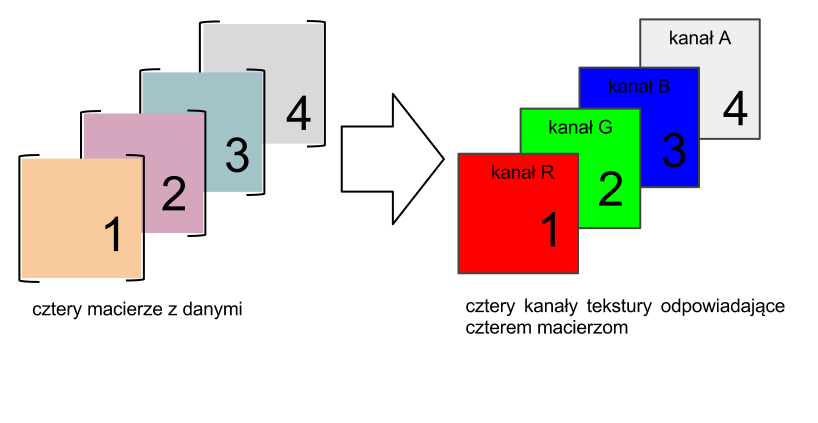
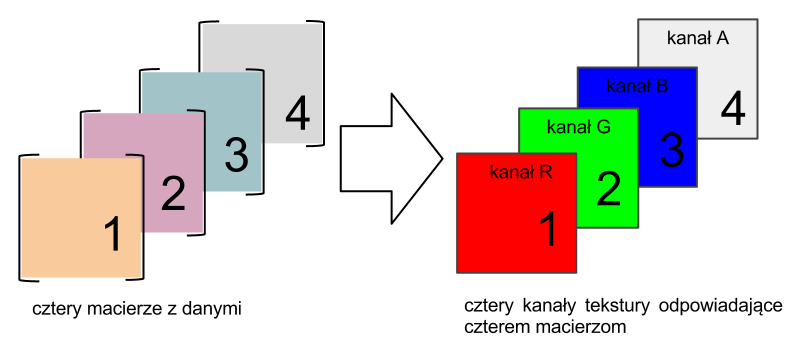
Poprawki w rozdziale o implementacji WebGL, abstrakcie i obrazkach

Changed region(s): [[0.0, 0.0291, 0.9636, 0.843], [0.5721, 0.8721, 0.9937, 0.9884], [0.0301, 0.8721, 0.3011, 0.9302]]

diff --git a/abstrakt.tex b/abstrakt.tex
@@ -1,32 +1,38 @@
 \begin{abstract}
 
-Celem niniejszej pracy było stworzenie wydajnej symulacji dynamiki płynów oraz przewodnictwa
-cieplnego działającej w środowisku przeglądarki internetowej. Aplikacja ma charakter edukacyjny, a
-jej głównym zadaniem jest wspieranie użytkownika w dogłębnym zrozumieniu procesu transferu energii,
-w tym zjawisk takich jak przewodnictwo cieplne, konwekcja czy różnorodne przepływy gazów i cieczy.
-Projekt został zrealizowany przy współpracy \mbox{z The Concord Consortium}, amerykańską organizacją
-\mbox{non-profit} zajmującą się wspieraniem edukacji poprzez technologię.
+Celem niniejszej pracy było stworzenie wydajnej symulacji dynamiki płynów oraz
+przewodnictwa cieplnego działającej w środowisku przeglądarki internetowej.
+Aplikacja ma charakter edukacyjny, a jej głównym zadaniem jest wspieranie
+użytkownika w dogłębnym zrozumieniu procesu transferu energii, w tym zjawisk
+takich jak przewodnictwo cieplne, konwekcja czy różnorodne przepływy gazów i
+cieczy. Projekt został zrealizowany przy współpracy \mbox{z The Concord
+Consortium}, amerykańską organizacją \mbox{non-profit} zajmującą się wspieraniem
+edukacji poprzez technologię.
 
-Implementacja symulatora w przeglądarce internetowej była niezwykle istotna ze względu na jego
-edukacyjne zastosowanie -- kluczowym wymaganiem była dostępność dla jak najszerszego grona
-użytkowników, przenośność, wieloplatformowość oraz możliwość łatwego osadzania w wirtualnych
-podręcznikach szkolnych nowej generacji.
-Z drugiej strony, o jakości symulacji fizycznej w dużej mierze decyduje jej wydajność czyli
-efektywne wykorzystanie zasobów. Do niedawna stało to w sprzeczności z implementacją w języku
-\emph{JavaScript} oraz wykonywaniem w środowisku przeglądarki internetowej.
+Implementacja symulatora w przeglądarce internetowej była niezwykle istotna ze
+względu na jego edukacyjne zastosowanie -- kluczowym wymaganiem była dostępność
+dla jak najszerszego grona użytkowników, przenośność, wieloplatformowość oraz
+możliwość łatwego osadzania w wirtualnych podręcznikach szkolnych nowej
+generacji. Z drugiej strony, o jakości symulacji fizycznej w dużej mierze
+decyduje jej wydajność czyli efektywne wykorzystanie zasobów. Do niedawna stało
+to w sprzeczności z implementacją w języku \emph{JavaScript} oraz wykonywaniem w
+środowisku przeglądarki internetowej. 
+ 
+Realizacja tych pozornie wykluczających się wymagań została osiągnięta dzięki
+implementacji uwzględniającej budowę i ograniczenia silników \emph{JavaScript} w
+nowoczesnych przeglądarkach oraz dzięki przeniesieniu większości obliczeń na
+procesor karty graficznej wykorzystując technologię \emph{WebGL}. Jest to
+podejście nowatorskie, gdyż dopiero wraz z niedawnym rozpowszechnieniem się
+standardu \emph{HTML5} zasoby kart graficznych stały się dostępne dla aplikacji
+internetowych w tak szerokim zakresie.
 
-Realizacja tych pozornie wykluczających się wymagań została osiągnięta dzięki implementacji
-uwzględniającej budowę i ograniczenia silników \emph{JavaScript} w nowoczesnych przeglądarkach oraz
-dzięki przeniesieniu większości obliczeń na procesor karty graficznej wykorzystując technologię
-\emph{WebGL}. Jest to podejście nowatorskie, gdyż dopiero wraz z niedawnym rozpowszechnieniem się
-standardu \emph{HTML5} zasoby kart graficznych stały się dostępne dla aplikacji internetowych w tak
-szerokim zakresie.
-
-W pracy zostały przedstawione najważniejsze, nowoczesne techniki umożliwiające tworzenie wydajnych,
-równoległych aplikacji działających w przeglądarce internetowej z wykorzystaniem języka
-\emph{JavaScript} oraz technologii \emph{WebGL}. Szczegółowo zostały również opracowanie rezultaty
-oraz korzyści płynące ze zrównoleglenia symulacji fizycznej. W efekcie powstał wydajny symulator,
-który dzięki swojej dostępności oraz jakości może mieć niezwykle szeroki wpływ na edukację i
-zrozumienie fizyki przez użytkowników na różnych etapach procesu kształcenia.
+W pracy zostały przedstawione najważniejsze, nowoczesne techniki umożliwiające
+tworzenie wydajnych, równoległych aplikacji działających w przeglądarce
+internetowej z wykorzystaniem języka \emph{JavaScript} oraz technologii
+\emph{WebGL}. Szczegółowo zostały również opracowanie rezultaty oraz korzyści
+płynące ze zrównoleglenia symulacji fizycznej. W efekcie powstał wydajny
+symulator, który dzięki swojej dostępności oraz jakości może mieć niezwykle
+szeroki wpływ na edukację i zrozumienie fizyki przez użytkowników na różnych
+etapach procesu kształcenia.
 
 \end{abstract}

diff --git a/rozdzial2.tex b/rozdzial2.tex
@@ -134,26 +134,25 @@ współczesnych urządzeń ([TODO: wspomnieć o rozdziale z testami]).
 
 Niezwykle ważną kwestią jest organizacja danych w teksturze. Jest sporo
 możliwości ponieważ tekstura z zasady nie jest wierną kopią dwuwymiarowej
-tablicy JavaScript, a obiektem przystosowanym do przechowywania obrazów. Stąd
-posiada na przykład kanały kolorów. Programista ma jednak możliwość
-konfiguracji, stąd można rozważyć kilka potencjalnych sposób na organizację
-danych.
+tablicy JavaScript, a obiektem przystosowanym do przechowywania obrazów (posiada
+na przykład kanały kolorów). Dlatego też można rozważyć kilka potencjalnych
+sposobów na rozmieszczenie danych.
 
 \begin{itemize}
 
-\item Schemat 1. -- tekstury jednokanałowe (format ALPHA lub LUMINANCE), jedna
+\item Schemat 1 -- tekstury jednokanałowe (format ALPHA lub LUMINANCE), jedna
 tekstura odpowiada jednej tablicy JavaScript. Dalej nazywany schematem
 \textbf{A1} na potrzeby niniejszego opracowania.
 
-\item Schemat 2. -- tekstury czterokanałowe (format RGBA), dane tylko w jednym
+\item Schemat 2 -- tekstury czterokanałowe (format RGBA), dane tylko w jednym
 kanale, jedna tekstura odpowiada jednej tablicy JavaScript. Dalej nazywany
 schematem \textbf{RGBA1} na potrzeby niniejszego opracowania.
 
-\item Schemat 3. -- tekstury czterokanałowe (format RGBA) dane w każdym z
+\item Schemat 3 -- tekstury czterokanałowe (format RGBA), dane w każdym z
 kanałów, jedna tekstura odpowiada czterem tablicom JavaScript. Dalej nazywany
 schematem \textbf{RGBA4} na potrzeby niniejszego opracowania.
 
-\item Schemat 4. -- tekstury czterokanałowe (format RGBA), dane w każdym z
+\item Schemat 4 -- tekstury czterokanałowe (format RGBA), dane w każdym z
 kanałów, jedna tekstura odpowiada jednej tablicy JavaScript, rozmiar tekstury
 zredukowany czterokrotnie, gdyż każdy kanał odpowiada jednej ćwiartce tablicy.
 Dalej nazywany schematem \textbf{RGBA1/4} na potrzeby niniejszego opracowania.
@@ -176,9 +175,14 @@ schemat A1. Umożliwia on przeniesienie danych z tablic w relacji 1:1 do tekstur
 Do tego, każdy odczyt czy zapis do tekstury dotyczy tylko jednego kanału.
 Niestety, na większości urządzeń nie ma możliwości dołączenia tekstury typu
 ALPHA lub LUMINANCE do własnego obiektu bufora ramki (ang. FrameBuffer Object)
--- czyli renderowania do takiej tekstury. Wyklucza to możliwość użycia tego
-rozwiązania mimo oczywistych zalet. Być może w przyszłości rozwój specyfikacji
-WebGL na to pozwoli.
+-- czyli renderowania do takiej tekstury \footnote{Testy zostały przeprowadzone
+na systemie Linux (Ubuntu 12.04) i przeglądarce Google Chrome w wersji 22, która
+korzysta z natywnego sterownika OpenGL. Natomiast na tej samej konfiguracji
+sprzętowej, ale działającej pod kontrolą systemu Windows nie udałoby się
+uruchomić aplikacji. Podobnie w przypadku równie popularnego systemu
+operacyjnego OS X.}. Wyklucza to możliwość użycia tego rozwiązania mimo
+oczywistych zalet. Być może w przyszłości rozwój specyfikacji WebGL na to
+pozwoli.
 
 Warto tutaj nadmienić, że specyfikacja WebGL (\cite{WebGLSpec}) nie gwarantuje,
 iż jakikolwiek z formatów tekstur zmiennoprzecinkowych będzie zaakceptowany jako
@@ -263,5 +267,5 @@ rezultaty pod względem wydajności. Symulacja okazała się być wolniejsza oko
 34\% od symulacji korzystającej ze schematu RGBA4.
 
 Dlatego też, ostatecznie w Energy2D zastosowano schemat RGBA4. Zapewnia on
-stosunkowo dobrą wydajność oraz wsparcie przez większość dostępnych obecnie
-urządzeń.
+najlepszy kompromis pomiędzy dobrą wydajnością oraz wsparciem przez większość
+dostępnych obecnie urządzeń.
